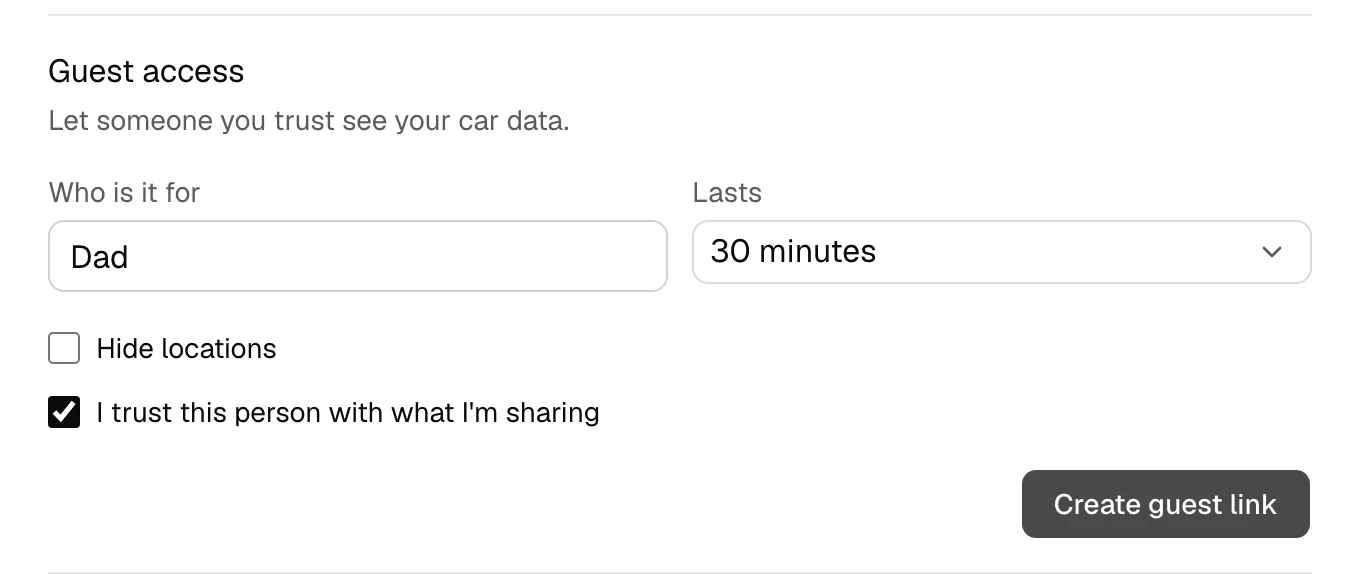
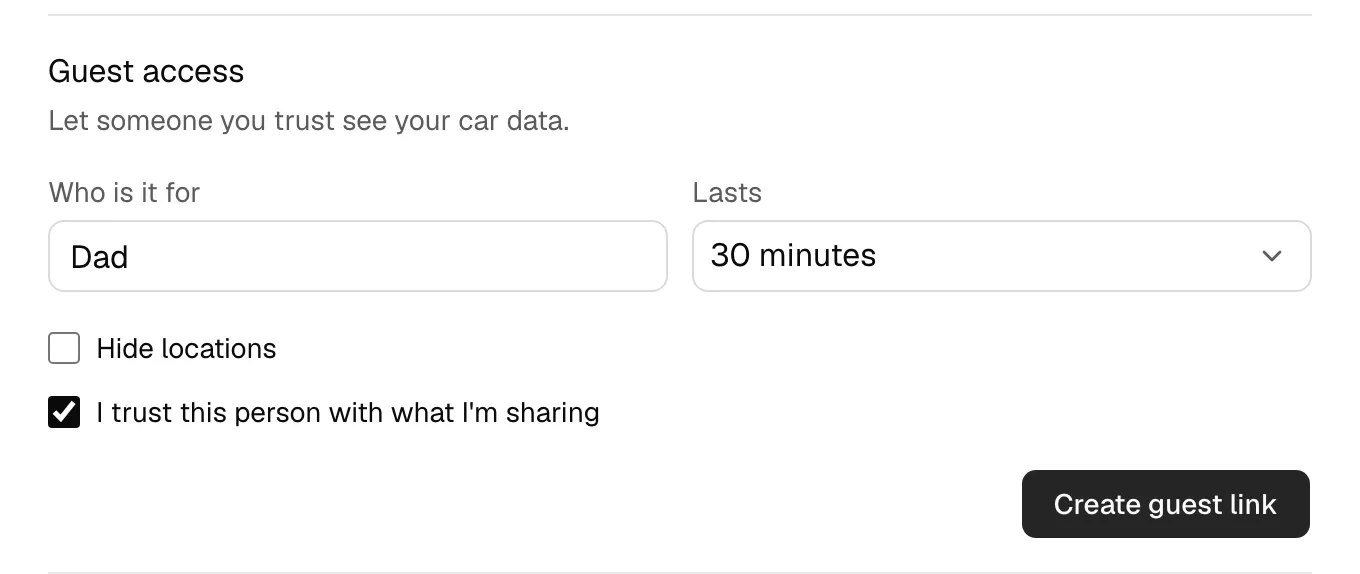
Rounded focus rings, the last square corners, and a fresh Guest access screenshot (#45)
- Focus rings round everywhere: one base rule gives :focus-visible the small
  radius, and an element with its own rounded-* keeps that. Skip to content
  rounds too.
- Missed corners: the period switch's picked highlight, the tour's frame, its
  outline and bullet dots, the charge-habits grid cells and their skeleton,
  and Updates' loading bars.
- Release notes: Guest access's screenshot taken again after #44, so the
  "Lasts" select is the same height as the name box beside it.

Changed region(s): [[0.7412, 0.7997, 0.9882, 0.9477], [0.525, 0.4146, 0.9574, 0.5331], [0.9265, 0.4146, 0.9574, 0.4443]]

diff --git a/components/home/welcome-tour.tsx b/components/home/welcome-tour.tsx
@@ -111,7 +111,7 @@ function Preview({ spot, near, page = false }: { spot: TourSpot; near: TourSpot[
     <div aria-hidden="true" className="relative h-full min-h-0 overflow-hidden">
       <TourBackdrop />
       <TourSlice focusY={focusY}>
-        <div className="relative border bg-background shadow-xl" style={{ aspectRatio: `${TOUR_SHOT.width} / ${TOUR_SHOT.height}` }}>
+        <div className="relative overflow-hidden rounded-lg border bg-background shadow-xl" style={{ aspectRatio: `${TOUR_SHOT.width} / ${TOUR_SHOT.height}` }}>
           {/* The whole page, blurred and dimmed, and the same page again on top, sharp, showing only the part the step is about. */}
           <div className="absolute inset-0 opacity-45 blur-[3px]">
             <Pictures spot={spot} near={near} />
@@ -123,7 +123,7 @@ function Preview({ spot, near, page = false }: { spot: TourSpot; near: TourSpot[
             <Pictures spot={spot} near={near} />
           </div>
           <span
-            className="absolute outline-2 outline-offset-2 outline-chart-accent motion-safe:transition-[left,top,width,height] motion-safe:duration-[600ms] motion-safe:ease-[cubic-bezier(.2,.7,.2,1)]"
+            className="absolute rounded-md outline-2 outline-offset-2 outline-chart-accent motion-safe:transition-[left,top,width,height] motion-safe:duration-[600ms] motion-safe:ease-[cubic-bezier(.2,.7,.2,1)]"
             style={{ left: `${t.x}%`, top: `${t.y}%`, width: `${t.w}%`, height: `${t.h}%` }}
           />
           <svg
@@ -149,7 +149,7 @@ const toSteps = (steps: Step[]): TourStep[] =>
     <ul className="mt-5 space-y-2.5 max-sm:[@media(max-height:640px)]:mt-3.5 max-sm:[@media(max-height:640px)]:space-y-1.5">
       {s.points.map((point) => (
         <li key={point} className="flex items-start gap-3 text-[15px] leading-snug text-foreground">
-          <span aria-hidden="true" className="mt-[0.5em] size-1.5 shrink-0 bg-foreground/60" />
+          <span aria-hidden="true" className="mt-[0.5em] size-1.5 shrink-0 rounded-full bg-foreground/60" />
           {point}
         </li>
       ))}

diff --git a/app/layout.tsx b/app/layout.tsx
@@ -57,7 +57,7 @@ export default function RootLayout({ children }: LayoutProps<"/">) {
         {/* First stop for the keyboard: hidden until focused, then fixed in the corner so nothing moves. */}
         <a
           href="#content"
-          className="sr-only focus:not-sr-only focus:fixed focus:top-3 focus:left-3 focus:z-50 focus:bg-background focus:px-4 focus:py-2.5 focus:text-sm focus:font-medium focus:text-foreground"
+          className="sr-only focus:not-sr-only focus:fixed focus:top-3 focus:left-3 focus:z-50 focus:rounded-lg focus:bg-background focus:px-4 focus:py-2.5 focus:text-sm focus:font-medium focus:text-foreground"
         >
           Skip to content
         </a>

diff --git a/components/stats/charge-habits.tsx b/components/stats/charge-habits.tsx
@@ -60,7 +60,7 @@ export function ChargeHabits({ starts }: { starts: number[] }) {
                 onFocus={(e) => setActive({ key: [d, s], el: e.currentTarget })}
                 onClick={(e) => setActive({ key: [d, s], el: e.currentTarget })}
                 className={cn(
-                  "h-6 outline-offset-1 focus-visible:outline-2 focus-visible:outline-ring max-sm:h-7",
+                  "h-6 rounded-sm outline-offset-1 focus-visible:outline-2 focus-visible:outline-ring max-sm:h-7",
                   n === 0 ? "bg-background" : "bg-chart-accent",
                   isActive(d, s) && "ring-2 ring-foreground",
                 )}

diff --git a/components/segmented.tsx b/components/segmented.tsx
@@ -78,7 +78,7 @@ export function Segmented<T extends string | number>({
                 picked ? "font-medium text-foreground" : "text-muted-foreground hover:text-foreground",
               )}
             >
-              {picked && <Indicator name={indicator} className="inset-0 bg-secondary" />}
+              {picked && <Indicator name={indicator} className="inset-0 rounded-md bg-secondary" />}
               {option.icon}
               <Label label={option.label} phoneHidden={!phoneLabels} />
             </button>

diff --git a/app/updates/page.tsx b/app/updates/page.tsx
@@ -233,7 +233,7 @@ function UpdatesSkeleton() {
               {Array.from({ length: 14 }, (_, k) => (
                 <li key={k} className="flex items-center gap-3">
                   <span className="w-16 shrink-0 text-xs"><Ph>Yesterday</Ph></span>
-                  <div className="h-4 flex-1 bg-background/60" />
+                  <div className="h-4 flex-1 rounded-sm bg-background/60" />
                 </li>
               ))}
             </ol>

diff --git a/components/stats/skeletons.tsx b/components/stats/skeletons.tsx
@@ -173,7 +173,7 @@ export function ChargingSkeleton() {
                 <Ph>{day}</Ph>
               </span>
               {Array.from({ length: 8 }, (_, k) => (
-                <span key={k} className="h-6 bg-background max-sm:h-7" />
+                <span key={k} className="h-6 rounded-sm bg-background max-sm:h-7" />
               ))}
             </div>
           ))}

diff --git a/app/globals.css b/app/globals.css
@@ -239,6 +239,10 @@
     -webkit-appearance: none;
     margin: 0;
   }
+  /* Every focus ring is rounded. Base layer: an element with its own rounded-* class keeps it. */
+  :focus-visible {
+    border-radius: var(--radius-sm);
+  }
   /* Links, summaries and tabbable spans have no ring of their own; buttons draw theirs. */
   a:focus-visible,
   summary:focus-visible,
